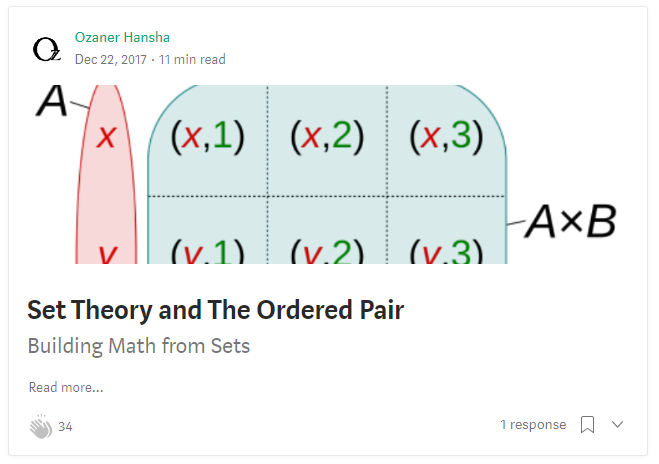
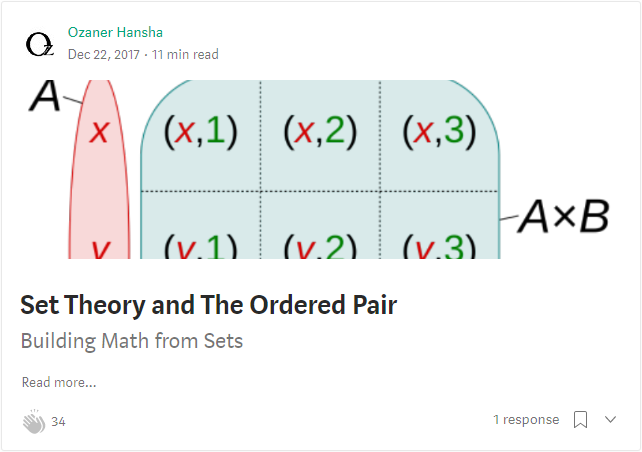
Fix
test

diff --git a/_includes/head.html b/_includes/head.html
@@ -30,7 +30,11 @@
   <link rel="alternate" type="application/rss+xml" title="RSS" href="/atom.xml">
 
   <!-- Adds MathJax -->
-  <script type="text/javascript" src="https://cdn.mathjax.org/mathjax/latest/MathJax.js?config=TeX-AMS-MML_HTMLorMML">
+  <!-- <script type="text/javascript" src="https://cdn.mathjax.org/mathjax/latest/MathJax.js?config=TeX-AMS-MML_HTMLorMML">
+  </script> -->
+
+  <!-- Adds MathJax -->
+  <script type="text/javascript" src="https://cdn.mathjax.org/mathjax/latest/MathJax.js?config=TeX-MML-AM_CHTML">
   </script>
 
   <!-- Adds Awesome Icons-->

diff --git a/index.html b/index.html
@@ -6,11 +6,12 @@ title: Home
 <div class="posts">
   {% for post in paginator.posts %}
   <div class="post">
-    <h2 class="post-title">
+    <h1 class="post-title">
       <a href="{{ post.url }}">{{ post.title }}</a>
-    </h2>
+    </h1>
     <span class="post-date">{{ post.date | date_to_string }}</span>
-    {{ post.excerpt | remove: '<h2 id=>*' | remove: '</h2>' }}
+    {{ post.excerpt }}
+
     <!--Adds Read more-->
     <a href="{{ post.url }}">Read more</a>
     <p></p>

diff --git a/_posts/2017-05-23-groups.md b/_posts/2017-05-23-groups.md
@@ -1,0 +1,61 @@
+---
+layout: post
+title: Groups
+tags: math abstract-algebra
+---
+### Background
+Groups are considered the simplest, yet still complete, algebraic structure and is the focus of [group theory](https://en.wikipedia.org/wiki/Group_theory).
+For an introduction on the history of abstract algebra and algebraic structures refer to my post on it [here](/2017/05/21/abstract-algebra).
+
+### Definition
+A group is a set coupled with some operation that can be performed on the elements of that set. Addition ($$+$$), for example, can be done with the set of integers (denoted $$\mathbb{Z}$$). We call this group *addition under the integers* and denote it like so:
+
+$$(\mathbb{Z},+)$$
+
+As you can see above, a group is an ordered pair $$(a,b)$$ with where $$a$$ is a set and $$b$$ is an operator.
+
+<!--more-->
+
+#### The Group Axioms
+But not just any set and operation can form a group. They have to satisfy 4 conditions, or *axioms*, to qualify as a group:
+1. [Closure](#closure)
+2. [Associativity](#associativity)
+3. [Identity](#identity)
+4. [Inverse](#inverse)
+
+If we have a set $$S$$ and an operation $$\cdot$$ then the group would be $$(S,\cdot)$$.
+
+##### Closure
+The first axiom, closure, simply means that for any two element in $$S$$, say $$x$$ & $$y$$, then $$x \cdot y$$ must always be a member of $$S$$.
+
+In the integer addition example this means that the sum of any two integers must also be an integer. Pretty simple.
+
+*Formal definition for those who want it:* $$\forall x,y \in S (x \cdot y \in S)$$
+
+##### Associativity
+
+*Formal definition:* $$\forall x,y,z \in S ((x\cdot y)\cdot z = x\cdot (y\cdot z))$$
+
+### Rationale
+These 4 properties may seem arbitrary at first, but to see why they're so vital let's look at an example. We will, like before, use addition under the integers:
+
+$$\begin{align}
+  & \text{Solve for x}
+\\& x+5=7
+\\& (x+5)-5 = 7-5 &\text{[Add -5 to both sides]}&
+\\& (x+5)-5 = 2   &\text{[Closure]}&
+\\& x+(5-5) = 2   &\text{[Associativity]}&
+\\& x+0 = 2       &\text{[Inverse]}&
+\\& x = 2         &\text{[Identity]}&
+\end{align}$$
+
+We have some equation and want to solve for $$x$$. This is exactly what algebra, groups in particular, was made for.
+
+* First we add $$-5$$ to both sides, allowing us to cancel the other $$5$$ later on
+* Next we compute $$7-5$$, thanks to closure we know this is another integer
+* Then, thanks to associativity, we move the parenthesis around to encompass $$5$$ and $$-5$$
+* Since those two numbers are inverses, they add to the identity: $$0$$
+* Finally since we know anything plus the identity is itself, we're done
+
+### Extending the Group
+But what if we want equations with both multiplication and addition? Well we could just 'switch' the group we are using whenever we switch from addition to multiplication or vice versa. But this is sloppy. To create an algebraic structure that includes two operations, like addition and multiplication, we need to talk about rings. Luckily I wrote a post on it [here](/2017/05/24/rings).

diff --git a/_drafts/2018-01-09-properties-of-logic-operators.md b/_drafts/2018-01-09-properties-of-logic-operators.md
@@ -1,7 +1,7 @@
 ---
 layout: post
-title: Algebraic Properties of Logic Gates
-tags: math abstract-algebra
+title: Algebraic Properties of Logic Operators
+tags: math abstract-algebra computer-science
 ---
 ### Background
 In this post I will attempt to detail the algebraic properties of the 5 most common logic gates.
@@ -11,7 +11,7 @@ In this post I will attempt to detail the algebraic properties of the 5 most com
 * [`NAND`](#nand-gate)
 * [`XOR`](#xor-gate)
 
-*As it turns*
+*As it turns out, all of these examples can be considered groups*
 
 ### NOT Gate
 
